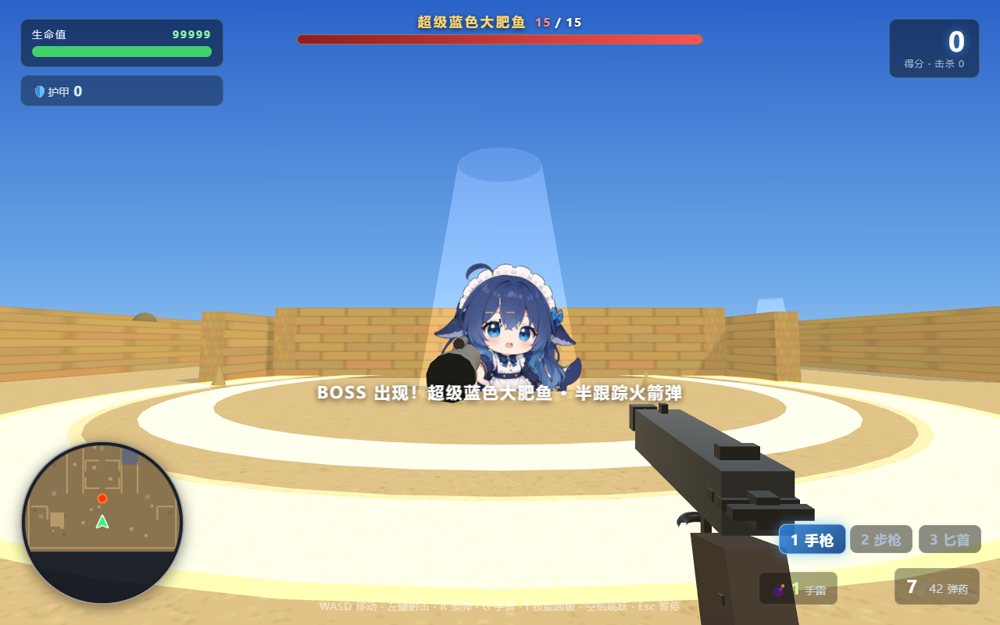
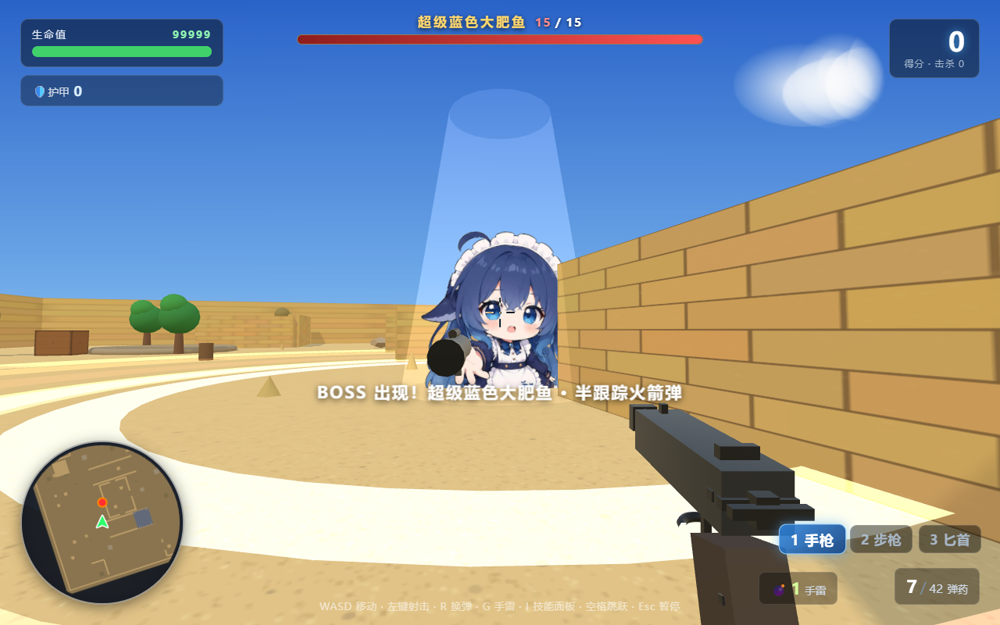
fix: 缩小 Boss 武器并调整持握角度 + 重制三张 Boss 配图
问题（玩家指出）：新 Boss 配图里武器是一整块黑色挡住 Boss。
排查发现是两件事叠加：
① Boss 武器缩放 3 倍 -> 炮管/巨剑宽过 6 米高的本体，
   从正面看圆柱端面就是一整块黑
② 武器模型原本都朝向 -z（镜头方向），正面拍摄只能看到端面

修复：
- 武器缩放 3.0 -> 2.0（既不影响观感，也不再宽过本体）
- 给三种武器加内建持握角度：
  巨剑 rotation.y = 0.32π（斜握）、法杖 0.28π（略斜）、三管炮 0.5π（完全侧向）
  这样武器以侧面轮廓呈现，能看清剑身/炮管形状且不挡脸

配图重制（斜 72 度机位 + 清空随机掩体 + 冻结移动）：
- 03-boss-attack.png：阶段 1 常规 Boss（带数值血条与出场光圈）
- 10-boss-entrance.png：冲锋鱼登场（光圈 + 光柱 + 大剑）
- 11-boss-variants.png：四变体 2x2 拼图（机位统一、武器清晰）

diff --git a/js/game.js b/js/game.js
@@ -3928,6 +3928,7 @@ function makeBossSword() {
   handle.rotation.x = Math.PI / 2; handle.position.set(0, 0, 2.15);
   g.add(blade, tip, guard, handle);
   g.position.set(-1.35, -1.3, 0.5);
+  g.rotation.y = Math.PI * 0.32;      // 斜握：剑身侧向，不正面挡脸
   var tipAnchor = new THREE.Object3D();
   tipAnchor.position.set(0, 0, -2.2);
   g.add(tipAnchor);
@@ -3953,6 +3954,7 @@ function makeBossStaff() {
   ring2.rotation.y = Math.PI / 2;
   g.add(rod, head, halo, ring2);
   g.position.set(-1.35, -1.3, 0.5);
+  g.rotation.y = Math.PI * 0.28;      // 略斜：法球与杖身都能看清
   var tipAnchor = new THREE.Object3D();
   tipAnchor.position.set(0, 0, -2.1);
   g.add(tipAnchor);
@@ -3979,6 +3981,7 @@ function makeBossCannon() {
   base.position.set(0, 0, 0.6);
   g.add(base);
   g.position.set(-1.35, -1.3, 0.5);
+  g.rotation.y = Math.PI * 0.5;       // 完全侧向：三根炮管从侧面展示，不再正对镜头变成黑块
   var tipAnchor = new THREE.Object3D();
   tipAnchor.position.set(0, 0, -2.2);
   g.add(tipAnchor);
@@ -4015,7 +4018,9 @@ function spawnBoss() {
   mesh.castShadow = true;
   mesh.position.set(pos.x, 3.0, pos.z);
   var weapon = makeBossWeapon(variant);
-  weapon.scale.set(3, 3, 3);
+  // 武器整体尺寸：2.0 倍（Boss 本体是 6 米高；3 倍时炮管/巨剑会宽过本体，
+  // 正面视角变成一整块黑色挡住 Boss，缩小后既能看清武器形状也不挡脸）
+  weapon.scale.set(2.0, 2.0, 2.0);
   mesh.add(weapon);
   scene.add(mesh);
   var bossHpNow = Math.round(bossHpNext * variant.hpMul);
